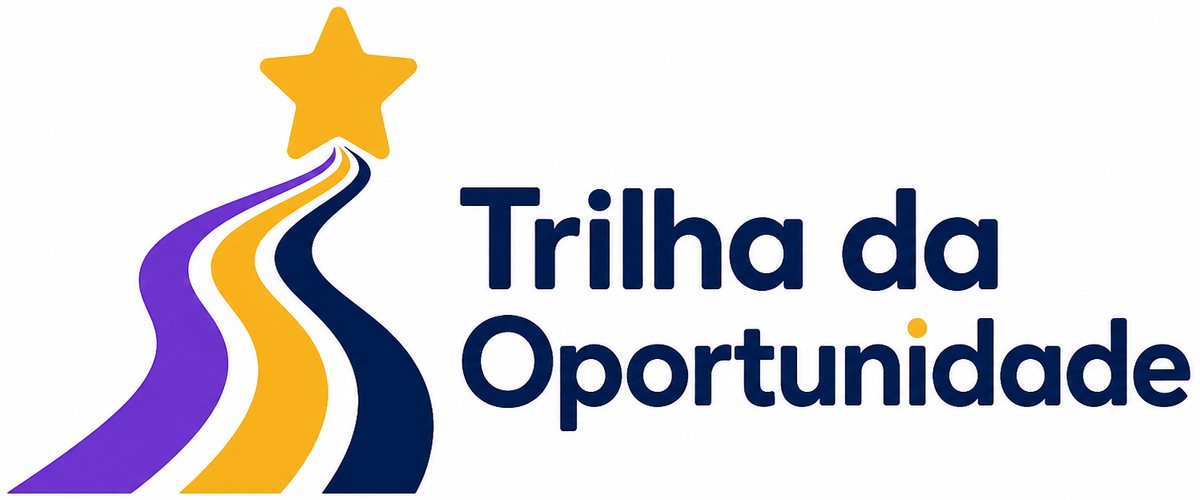
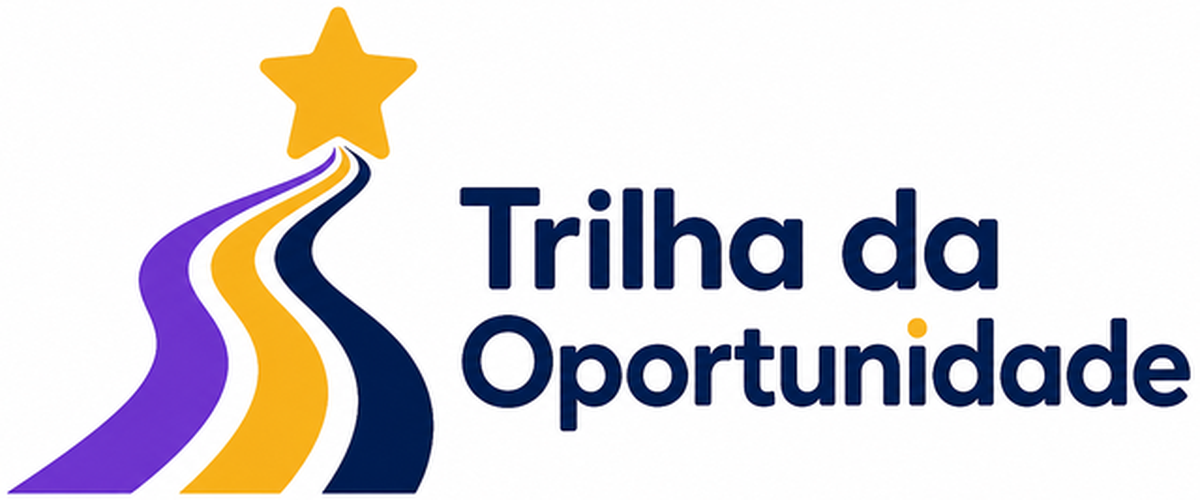
Refresh the social thumb around the official lockup.
Center the Trilha logo on a clean white 1200×630 Open Graph card and keep Twitter in sync.

diff --git a/src/app/opengraph-image.tsx b/src/app/opengraph-image.tsx
@@ -3,7 +3,6 @@ import { ImageResponse } from "next/og";
 import { ogLockupDataUrl } from "@/lib/brand-assets";
 import {
   loadOgFonts,
-  OG_GOLD,
   OG_LOCKUP_SIZE,
   OG_NAVY,
   OG_SIZE,
@@ -18,7 +17,7 @@ export const contentType = "image/png";
 
 export default async function OpenGraphImage() {
   const [logoSrc, fonts] = await Promise.all([ogLockupDataUrl(), loadOgFonts()]);
-  const logoWidth = 1040;
+  const logoWidth = 980;
   const logoHeight = Math.round(
     (logoWidth * OG_LOCKUP_SIZE.height) / OG_LOCKUP_SIZE.width
   );
@@ -33,22 +32,13 @@ export default async function OpenGraphImage() {
           flexDirection: "column",
           alignItems: "center",
           justifyContent: "center",
-          gap: 28,
+          gap: 36,
           background: OG_WHITE,
           color: OG_NAVY,
-          padding: "48px 64px",
+          padding: "56px 72px",
           fontFamily: "Fredoka",
         }}
       >
-        <div
-          style={{
-            display: "flex",
-            height: 8,
-            width: 88,
-            borderRadius: 999,
-            background: OG_GOLD,
-          }}
-        />
         <img
           src={logoSrc}
           alt={SITE_NAME}
@@ -58,10 +48,12 @@ export default async function OpenGraphImage() {
         <div
           style={{
             display: "flex",
-            fontSize: 30,
+            fontSize: 28,
             fontWeight: 600,
-            lineHeight: 1.25,
+            lineHeight: 1.3,
             letterSpacing: -0.2,
+            textAlign: "center",
+            maxWidth: 900,
           }}
         >
           {SITE_TAGLINE}
